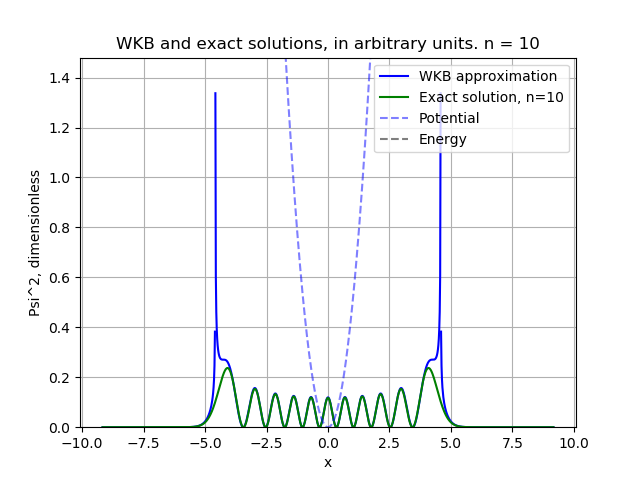
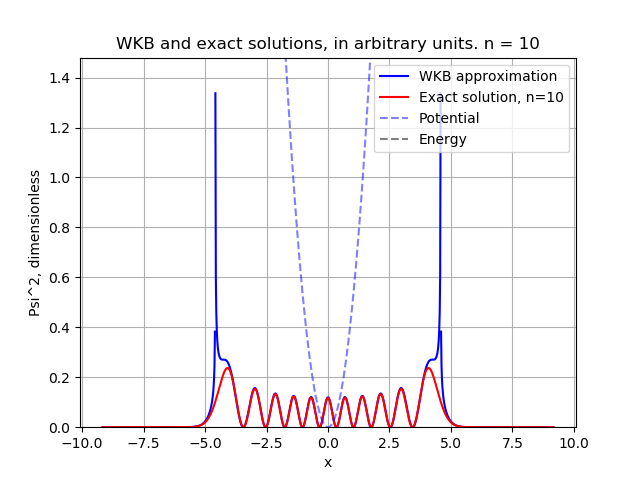
change n=10 plot color

Changed region(s): [[0.3125, 0.75, 0.6875, 0.9062], [0.6875, 0.8438, 0.7188, 0.9062], [0.5938, 0.1875, 0.625, 0.2188]]

diff --git a/Quantum Mechanics/Assignment 2/harmonic_oscillator_plot.py b/Quantum Mechanics/Assignment 2/harmonic_oscillator_plot.py
@@ -70,7 +70,7 @@ hbar = 1
 omega = 1
 m = 1
 # Define constants in terms of E:
-n = 1
+n = 11
 E = (n-1/2)*omega*hbar
 # E = V(x1) = V(x2)
 x2 = np.sqrt(2*E/(m*omega**2))
@@ -105,8 +105,8 @@ ax.plot(x_class, wave_class, 'b', label="WKB approximation")
 ax.plot(x_non_class_1, wave_non_class_1, 'b')
 ax.plot(x_non_class_2, wave_non_class_2, 'b')
 # Plot exact solutions
-ax.plot(x, exact_solution_0(x, m, omega, hbar), 'r', label="Exact solution, n=0")
-#ax.plot(x, exact_solution_10(x, m, omega, hbar)*const10, 'g', label="Exact solution, n=10")
+#ax.plot(x, exact_solution_0(x, m, omega, hbar), 'r', label="Exact solution, n=0")
+ax.plot(x, exact_solution_10(x, m, omega, hbar)*const10, 'r', label="Exact solution, n=10")
 # Plot potential
 ax.plot(x, potential(x, m, omega), 'b--', label="Potential", alpha=0.5)
 # Plot energy
@@ -115,7 +115,7 @@ plt.legend(loc='upper right')
 # Plot x and y axis thicker
 # ax.axvline(0)
 # ax.axhline(0)
-plt.ylim([0, D*10])
+plt.ylim([0, D*4])
 ax.grid()
 plt.title(f'WKB and exact solutions, in arbitrary units. n = {n-1}')
 plt.ylabel("Psi^2, dimensionless")
